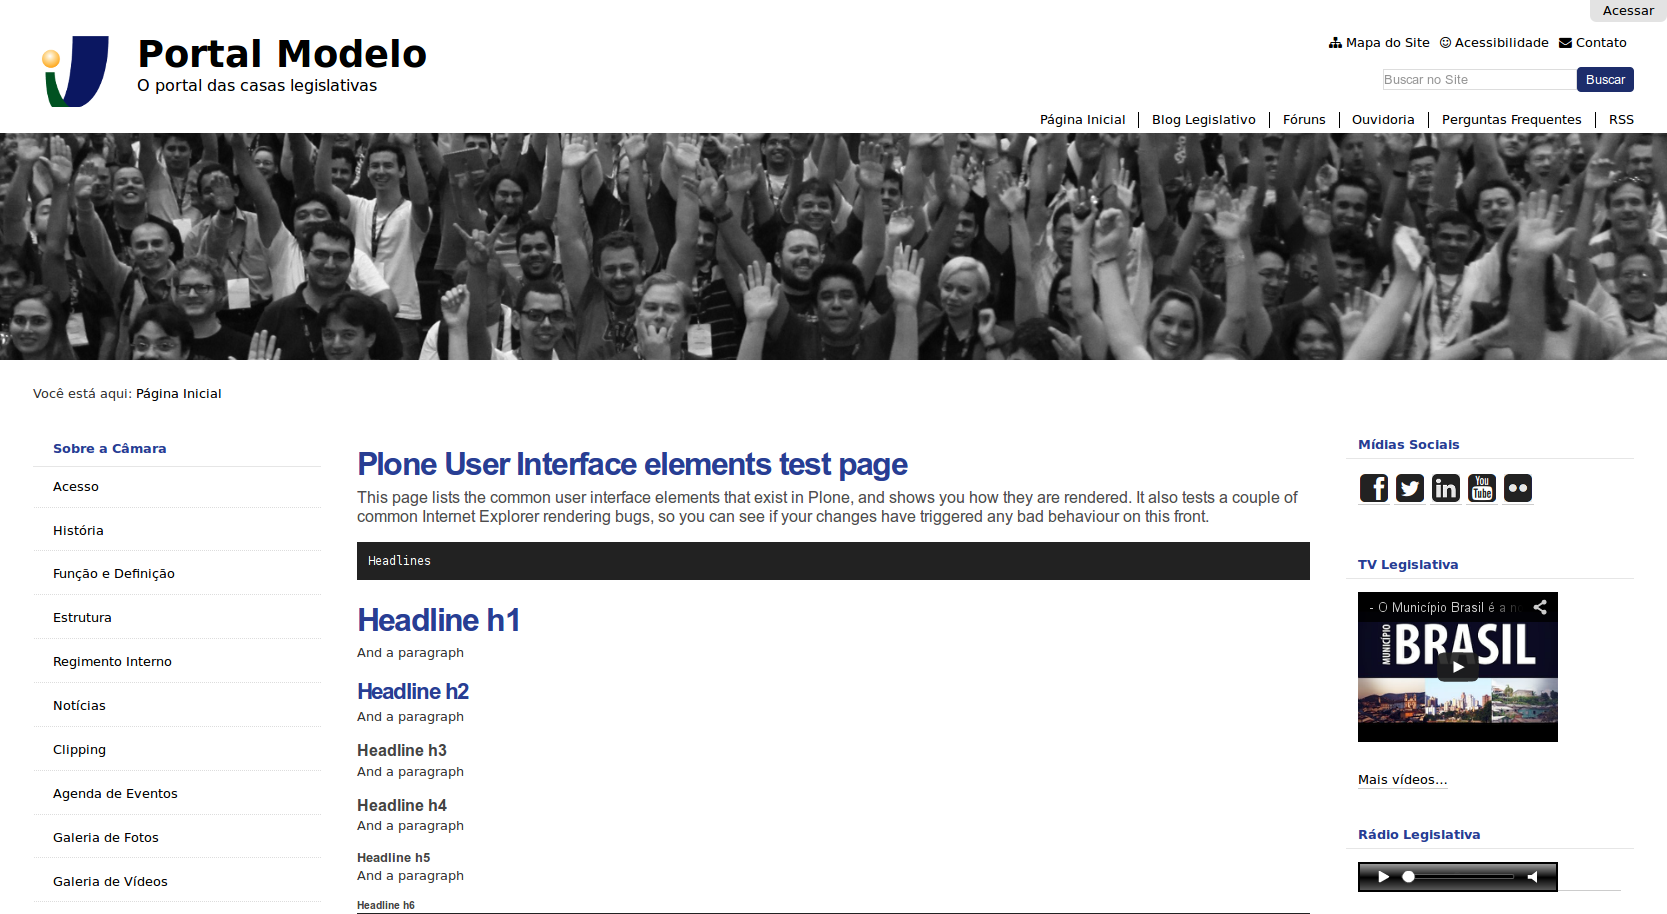
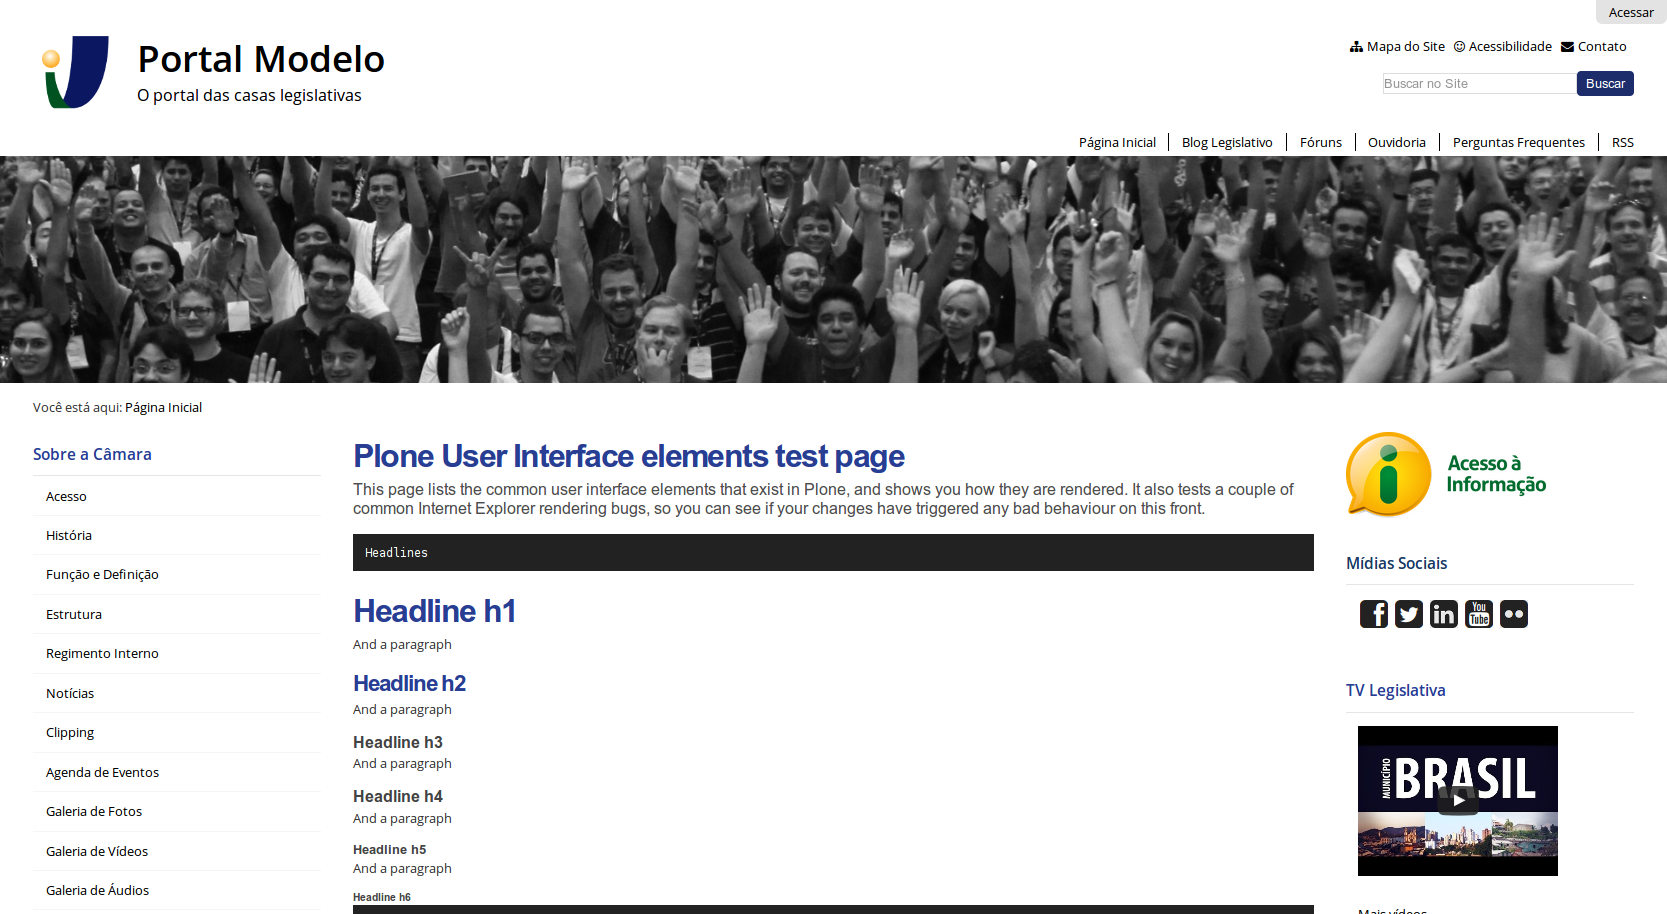
Update preview images

diff --git a/CHANGES.rst b/CHANGES.rst
@@ -4,6 +4,9 @@ Changelog
 1.0rc5 (unreleased)
 -------------------
 
+- Update preview images
+  [jeanferri]
+
 - Enable IDG-rosa theme and fix it tests
   [jeanferri]
 
